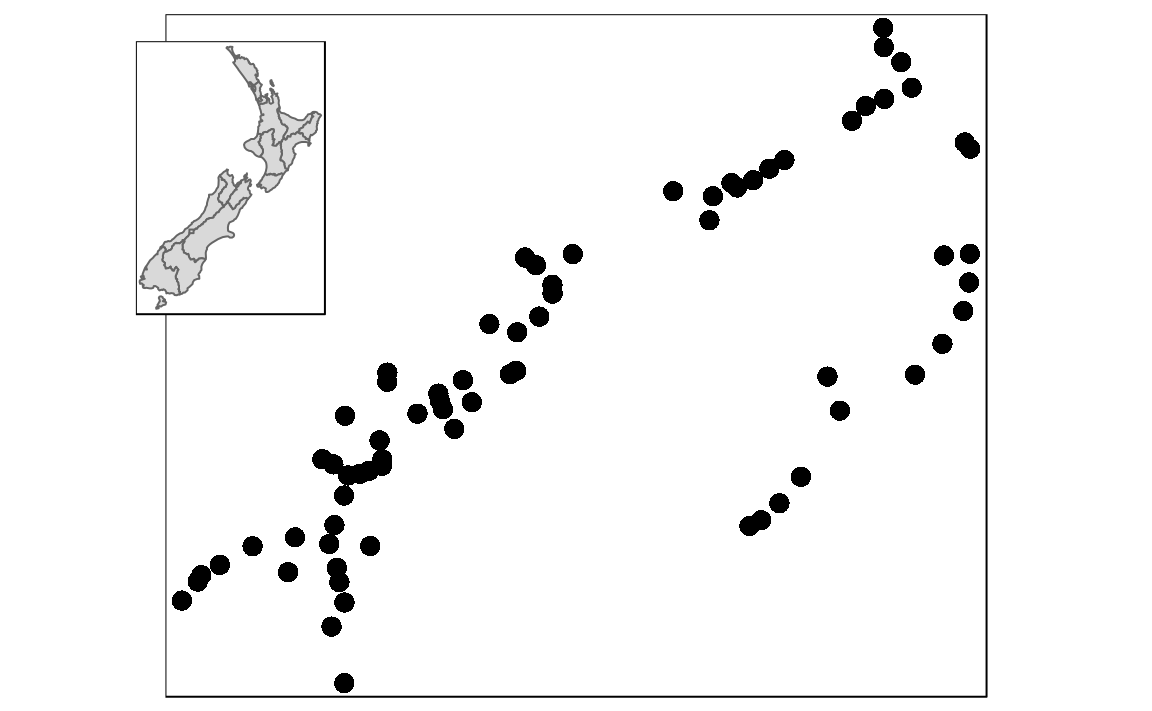
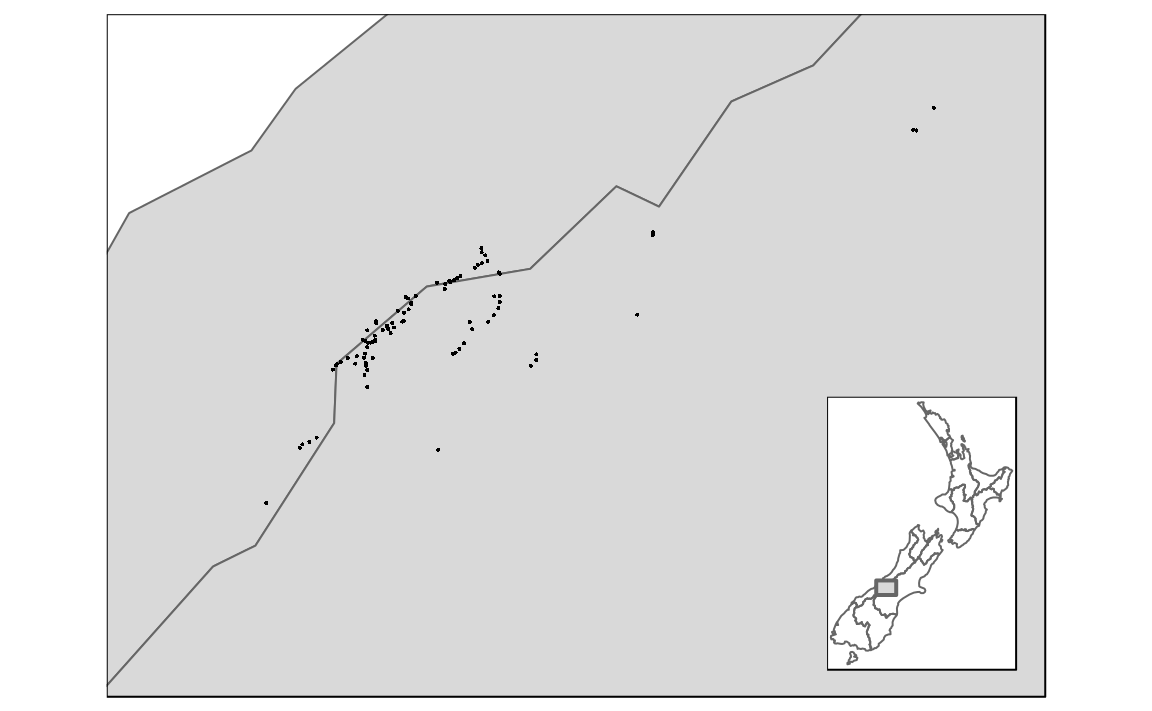
Updating book (2582)
Former-commit-id: a12f63fa78905db554093f89bf7e72590350706f
Former-commit-id: 99eceac7890cce7b973f46b362e61b43316e5d1f

diff --git a/adv-map.html b/adv-map.html
@@ -414,18 +414,12 @@ code > span.in { color: #60a0b0; font-weight: bold; font-style: italic; } /* Inf
 <div id="faceted-maps" class="section level3">
 <h3><span class="header-section-number">9.2.4</span> Faceted maps</h3>
 <p>Faceted maps are a common and potentially effective way of visualizing spatial relationships that are more complex that a single relationship. The population of cities at one moment in time can be represented easily on a single map, for example by making the size of symbols variable for each city depending on population. However, to represent the populations of cities at multiple moments in time requires an <em>extra dimension</em>. This could be added by an additional <em>aesthetic</em> such as color but this risks cluttering the map because it will involve multiple overlapping points (cities do not tend to move over time!).</p>
-<p>Faceted maps overcome this issue by creating ‘small multiples’ of spatial information. Typically, this will involve plotting the same geometry data multiple times, once for each variable present in the attribute data (this is the default plotting method for <code>sf</code> objects, as we saw in Chapter 2). However, facets can also represent shifting geometries, e.g. as the spatial distribution of a point pattern evolves over time. This use case of faceted plot is illustrated in Figure <a href="adv-map.html#fig:urban-facet">9.1</a>.</p>
+<p>Faceted maps overcome this issue by creating ‘small multiples’ of spatial information. Typically, this will involve plotting the same geometry data multiple times, once for each variable present in the attribute data (this is the default plotting method for <code>sf</code> objects, as we saw in Chapter 2). However, facets can also represent shifting geometries, e.g. as the spatial distribution of a point pattern evolves over time. This use case of faceted plot is illustrated in Figure <a href="#fig:urban-facet"><strong>??</strong></a>.</p>
 <div class="sourceCode"><pre class="sourceCode r"><code class="sourceCode r"><span class="kw">tm_shape</span>(world) +
 <span class="st">  </span><span class="kw">tm_polygons</span>() +<span class="st"> </span>
 <span class="st">  </span><span class="kw">tm_shape</span>(urban_agglomerations) +
 <span class="st">  </span><span class="kw">tm_dots</span>(<span class="dt">size =</span> <span class="st">&quot;population_millions&quot;</span>) +
 <span class="st">  </span><span class="kw">tm_facets</span>(<span class="dt">by =</span> <span class="st">&quot;year&quot;</span>)</code></pre></div>
-<div class="figure" style="text-align: center"><span id="fig:urban-facet"></span>
-<img src="figures/urban-facet-1.png" alt="Faceted map showing the top 30 largest 'urban agglomerations' from 1950 to 2030 based on population projects by the United Nations" width="576" />
-<p class="caption">
-Figure 9.1: Faceted map showing the top 30 largest ‘urban agglomerations’ from 1950 to 2030 based on population projects by the United Nations
-</p>
-</div>
 </div>
 <div id="inset-maps" class="section level3">
 <h3><span class="header-section-number">9.2.5</span> Inset maps</h3>
@@ -435,21 +429,20 @@ Figure 9.1: Faceted map showing the top 30 largest ‘urban agglomerations’ fr
 <!-- find the best distribution of insets -->
 <!-- example1: classic inset map -->
 <div class="sourceCode"><pre class="sourceCode r"><code class="sourceCode r"><span class="co"># mapview::mapview(nz_height, native.crs = TRUE)</span>
-nz_region =<span class="st"> </span><span class="kw">st_bbox</span>(<span class="kw">c</span>(<span class="dt">xmin =</span> <span class="dv">1364000</span>, <span class="dt">xmax =</span> <span class="dv">1387000</span>, <span class="dt">ymin =</span> <span class="dv">5165000</span>, <span class="dt">ymax =</span> <span class="dv">5185000</span>),
+nz_region =<span class="st"> </span><span class="kw">st_bbox</span>(<span class="kw">c</span>(<span class="dt">xmin =</span> <span class="dv">1340000</span>, <span class="dt">xmax =</span> <span class="dv">1450000</span>, <span class="dt">ymin =</span> <span class="dv">5130000</span>, <span class="dt">ymax =</span> <span class="dv">5210000</span>),
                     <span class="dt">crs =</span> <span class="kw">st_crs</span>(nz_height)) %&gt;%<span class="st"> </span>
-<span class="st">  </span><span class="kw">st_as_sfc</span>()</code></pre></div>
-<div class="sourceCode"><pre class="sourceCode r"><code class="sourceCode r">nz_height2 =<span class="st"> </span><span class="kw">st_intersection</span>(nz_height, nz_region)
-<span class="co">#&gt; Warning: attribute variables are assumed to be spatially constant</span>
-<span class="co">#&gt; throughout all geometries</span>
-nz_height_map =<span class="st"> </span><span class="kw">tm_shape</span>(nz_height2) +
-<span class="st">  </span><span class="kw">tm_dots</span>(<span class="dt">size =</span> <span class="fl">0.5</span>)</code></pre></div>
+<span class="st">  </span><span class="kw">st_as_sfc</span>() </code></pre></div>
+<div class="sourceCode"><pre class="sourceCode r"><code class="sourceCode r">nz_height_map =<span class="st"> </span><span class="kw">tm_shape</span>(nz, <span class="dt">bbox =</span> tmaptools::<span class="kw">bb</span>(nz_region)) +
+<span class="st">  </span><span class="kw">tm_polygons</span>() +
+<span class="st">  </span><span class="kw">tm_shape</span>(nz_height) +
+<span class="st">  </span><span class="kw">tm_dots</span>()</code></pre></div>
 <div class="sourceCode"><pre class="sourceCode r"><code class="sourceCode r">nz_map =<span class="st"> </span><span class="kw">tm_shape</span>(nz) +
-<span class="st">  </span><span class="kw">tm_polygons</span>() +<span class="st"> </span>
+<span class="st">  </span><span class="kw">tm_borders</span>() +<span class="st"> </span>
 <span class="st">  </span><span class="kw">tm_shape</span>(nz_region) +
-<span class="st">  </span><span class="kw">tm_polygons</span>()</code></pre></div>
+<span class="st">  </span><span class="kw">tm_polygons</span>(<span class="dt">lwd =</span> <span class="dv">2</span>)</code></pre></div>
 <div class="sourceCode"><pre class="sourceCode r"><code class="sourceCode r"><span class="kw">library</span>(grid)
 nz_height_map
-<span class="kw">print</span>(nz_map, <span class="dt">vp =</span> <span class="kw">viewport</span>(<span class="dt">x =</span> <span class="fl">0.2</span>, <span class="dt">y =</span> <span class="fl">0.75</span>, <span class="dt">width =</span> <span class="fl">0.4</span>, <span class="dt">height =</span> <span class="fl">0.4</span>))</code></pre></div>
+<span class="kw">print</span>(nz_map, <span class="dt">vp =</span> <span class="kw">viewport</span>(<span class="dt">x =</span> <span class="fl">0.8</span>, <span class="dt">y =</span> <span class="fl">0.25</span>, <span class="dt">width =</span> <span class="fl">0.4</span>, <span class="dt">height =</span> <span class="fl">0.4</span>))</code></pre></div>
 <p><img src="figures/unnamed-chunk-7-1.png" width="576" style="display: block; margin: auto;" /></p>
 <!-- example2: us states + hawaii + alaska -->
 <!-- find the best projection for each individual inset. -->
@@ -480,12 +473,12 @@ us_states_map
 <div id="animations" class="section level2">
 <h2><span class="header-section-number">9.3</span> Animations</h2>
 <p>Animated maps can be useful for communicating how spatial phenomena shift over time. An advantage of faceted plots are that they can be printed, but the approach has disadvantages: faceted maps can become very small with more than ~9 maps in one figure, and it can be hard to see the spatial relationships between each facet when each map is on a different part of the page! Furthermore, with the increasing proportion of communication that happens via digital screens, the disadvantage that animations cannot be printed is diminished. You can always link readers to a web-page containing an animated (or interactive) version of a printed map to help make it come alive.</p>
-<p>Figure <a href="adv-map.html#fig:urban-animated">9.2</a> is a simple example of the benefits of an animated map. Unlike the faceted plot presented in the previous section, it does not squeeze all 17 for them all to be displayed simultaneously (see the book’s website for the animated version).</p>
+<p>Figure <a href="adv-map.html#fig:urban-animated">9.1</a> is a simple example of the benefits of an animated map. Unlike the faceted plot presented in the previous section, it does not squeeze all 17 for them all to be displayed simultaneously (see the book’s website for the animated version).</p>
 <div class="sourceCode"><pre class="sourceCode r"><code class="sourceCode r">knitr::<span class="kw">include_graphics</span>(<span class="st">&quot;figures/urban-animated.gif&quot;</span>)</code></pre></div>
 <div class="figure" style="text-align: center"><span id="fig:urban-animated"></span>
 <img src="figures/urban-animated.gif" alt="Animated map showing the top 30 largest 'urban agglomerations' from 1950 to 2030 based on population projects by the United Nations."  />
 <p class="caption">
-Figure 9.2: Animated map showing the top 30 largest ‘urban agglomerations’ from 1950 to 2030 based on population projects by the United Nations.
+Figure 9.1: Animated map showing the top 30 largest ‘urban agglomerations’ from 1950 to 2030 based on population projects by the United Nations.
 </p>
 </div>
 <div class="sourceCode"><pre class="sourceCode r"><code class="sourceCode r">m =<span class="st"> </span><span class="kw">tm_shape</span>(world) +<span class="st"> </span>
